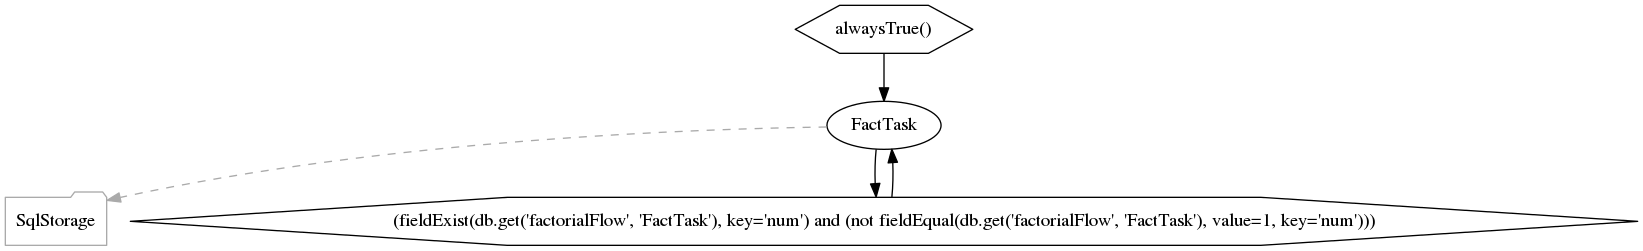
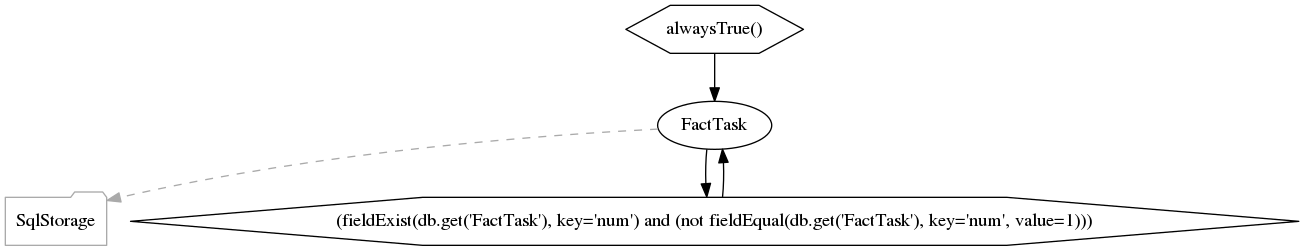
Update to the latest Selinon implementation

diff --git a/server/static/sources.html b/server/static/sources.html
@@ -1,9 +1,9 @@
 <h2>Source Code &amp; Contributing</h2>
 
 <p>
-You can find sources related to Celeriac project on the following GitHub repositories:
+You can find sources related to Selinon project on the following GitHub repositories:
   <ul>
-    <li><a href="https://github.com/fridex/celeriac">Celeriac</a> - Dispatcher and flow management implementation</li>
-    <li><a href="https://github.com/fridex/celeriac-demo">Celeriac-demo</a> - Sources to this demo</li>
-    <li><a href="https://github.com/fridex/parsley">Parsley</a> - A tool to parse YAML configuration files, check system for consistency and generate appropriate configuration for Celeriac</li>
+    <li><a href="https://github.com/fridex/selinon">Selinon</a> - Dispatcher and flow management implementation</li>
+    <li><a href="https://github.com/fridex/selinon-demo">Selinon-demo</a> - Sources to this demo</li>
+    <li><a href="https://github.com/fridex/selinonlib">Selinonlib</a> - A tool to parse YAML configuration files, check system for consistency and generate appropriate configuration for Celeriac</li>
   </ul>

diff --git a/server/config/config.py b/server/config/config.py
@@ -1,14 +1,17 @@
-#!/usr/bin/env python
-# auto-generated using Parsley v0.1.0a1 on unused-4-104.brq.redhat.com at 2016-09-05 05:29:27.264675
+#!/usr/bin/env python3
+# auto-generated using Selinonlib v0.1.0rc3 on 1c010ed07619 at 2016-10-05 11:54:07.815240
 
-from parsley.predicates import alwaysTrue, httpStatus, fieldEqual, fieldExist
-from tasks import FactTask
-from tasks import SumTask
-from tasks import MulTask
-from tasks import FallbackTask
-from celeriac.storage import SqlStorage
-from celeriac.storage import RedisStorage
-from celeriac.storage import MongoStorage
+from selinonlib.predicates import fieldEqual, httpStatus, alwaysTrue, fieldExist
+from tasks import FactTask as FactTask
+from tasks import SumTask as SumTask
+from tasks import MulTask as MulTask
+from tasks import FallbackTask as FallbackTask
+from selinon.storage.sqlStorage import SqlStorage
+from selinon.storage.redisStorage import RedisStorage
+from selinon.storage.mongoStorage import MongoStorage
+
+import functools
+from selinonlib.strategies import biexponential_increase as _strategy_function
 
 
 task_classes = {
@@ -18,11 +21,20 @@ task_classes = {
     'FallbackTask': FallbackTask
 }
 
-def get_task_instance(task_name, flow_name, parent):
+task_queues = {
+    'FactTask': 'celery',
+    'SumTask': 'celery',
+    'MulTask': 'celery',
+    'FallbackTask': 'celery'
+}
+
+dispatcher_queue = 'celery'
+
+def get_task_instance(task_name, flow_name, parent, finished):
     cls = task_classes.get(task_name)
     if not cls:
         raise ValueError("Unknown task with name '%s'" % flow_name)
-    return cls(task_name=task_name, flow_name=flow_name, parent=parent)
+    return cls(task_name=task_name, flow_name=flow_name, parent=parent, finished=finished)
 
 ################################################################################
 
@@ -33,8 +45,8 @@ task2storage_mapping = {
 }
 
 _storage_SqlStorage = SqlStorage(connection_string='postgres://postgres:postgres@postgres:5432/postgres')
-_storage_RedisStorage = RedisStorage(db=1, host='redis', port=6379, charset='utf-8')
-_storage_MongoStorage = MongoStorage(db_name='database_name', collection_name='collection_name', host='mongo', port=27017)
+_storage_RedisStorage = RedisStorage(host='redis', port=6379, charset='utf-8', db=1)
+_storage_MongoStorage = MongoStorage(host='mongo', port=27017, collection_name='collection_name', db_name='database_name')
 storage2instance_mapping = {
     'SqlStorage': _storage_SqlStorage,
     'RedisStorage': _storage_RedisStorage,
@@ -48,22 +60,36 @@ def is_flow(name):
 
 ################################################################################
 
+strategy_function = functools.partial(_strategy_function, max_retry=120, start_retry=2)
+
+################################################################################
+
 output_schemas = {
 }
 
 ################################################################################
-
-propagate_finished = {
-    'mainFlow': True,
-    'factorialFlow': False
-}
 
 propagate_node_args = {
     'mainFlow': True,
     'factorialFlow': False
 }
 
+propagate_finished = {
+    'mainFlow': True,
+    'factorialFlow': False
+}
+
 propagate_parent = {
+    'mainFlow': False,
+    'factorialFlow': False
+}
+
+propagate_compound_finished = {
+    'mainFlow': False,
+    'factorialFlow': False
+}
+
+propagate_compound_parent = {
     'mainFlow': False,
     'factorialFlow': False
 }
@@ -78,19 +104,24 @@ max_retry = {
 }
 
 retry_countdown = {
-    'FactTask': 5,
-    'SumTask': 5,
-    'MulTask': 5,
-    'FallbackTask': 5
+    'FactTask': 0,
+    'SumTask': 0,
+    'MulTask': 0,
+    'FallbackTask': 0
 }
-
-################################################################################
 
 time_limit = {
     'FactTask': None,
     'SumTask': None,
     'MulTask': None,
     'FallbackTask': None
+}
+
+storage_readonly = {
+    'FactTask': False,
+    'SumTask': False,
+    'MulTask': False,
+    'FallbackTask': False
 }
 
 ################################################################################
@@ -100,8 +131,8 @@ _mainFlow_fail_SumTask = {'next': {'factorialFlow': _mainFlow_fail_SumTask_facto
 _mainFlow_fail_factorialFlow = {'next': {'SumTask': _mainFlow_fail_SumTask_factorialFlow}, 'fallback': []}
 
 _mainFlow_failure_starting_nodes = {
-    'SumTask': _mainFlow_fail_SumTask,
-    'factorialFlow': _mainFlow_fail_factorialFlow
+    'factorialFlow': _mainFlow_fail_factorialFlow,
+    'SumTask': _mainFlow_fail_SumTask
 }
 
 failures = {
@@ -117,13 +148,13 @@ nowait_nodes = {
 
 ################################################################################
 
-def init():
-    pass
+def init(config_cls):
+    return
 
 ################################################################################
 
 def _condition_mainFlow_0(db, node_args):
-    return httpStatus(status=200, path='/', host='example.com')
+    return httpStatus(host='example.com', path='/', status=200)
 
 
 def _condition_mainFlow_1(db, node_args):
@@ -136,9 +167,9 @@ def _condition_factorialFlow_0(db, node_args):
 
 def _condition_factorialFlow_1(db, node_args):
     return (
-fieldExist(message=db.get('factorialFlow', 'FactTask'), key='num') and 
+fieldExist(message=db.get('FactTask'), key='num') and 
 (not 
-fieldEqual(message=db.get('factorialFlow', 'FactTask'), key='num', value=1)))
+fieldEqual(message=db.get('FactTask'), key='num', value=1)))
 
 
 ################################################################################

diff --git a/server/tasks.py b/server/tasks.py
@@ -1,45 +1,45 @@
 import sys
+import os
 from celery import Celery
-from celeriac import CeleriacTask, Dispatcher
-from celeriac.config import Config
+from selinon import SelinonTask, Dispatcher, Config
 
 app = Celery('tasks')
 app.config_from_object('celeryconfig')
 
 
-class FactTask(CeleriacTask):
-    def execute(self, args):
+class FactTask(SelinonTask):
+    def run(self, node_args):
         if 'FactTask' in self.parent:
             prev_result = self.parent_task_result('FactTask')
             num = prev_result['num'] - 1
             res = prev_result['value'] * num
         else:
-            assert(args['n'] > 1)
-            res = args['n']
-            num = args['n']
+            assert(node_args['n'] > 1)
+            res = node_args['n']
+            num = node_args['n']
         return {'value': res, 'num': num}
 
 
-class SumTask(CeleriacTask):
-    def execute(self, args):
-        res = args['n'] + args['m']
+class SumTask(SelinonTask):
+    def run(self, node_args):
+        res = node_args['n'] + node_args['m']
         return {'value': res}
 
 
-class MulTask(CeleriacTask):
-    def execute(self, args):
+class MulTask(SelinonTask):
+    def run(self, node_args):
         fact_result = self.parent_flow_result('factorialFlow', 'FactTask', -1)
         sum_result = self.parent_task_result('SumTask')
         res = sum_result['value'] * fact_result['value']
         return {'value': res}
 
 
-class FallbackTask(CeleriacTask):
-    def execute(self, args):
+class FallbackTask(SelinonTask):
+    def run(self, node_args):
         print("We are in FallbackTask", file=sys.stderr)
 
 
 Config.trace_by_logging()
-Config.set_config_py('config/config.py')
+Config.set_config_py(os.path.join('config', 'config.py'))
 Config.set_celery_app(app)
 

diff --git a/worker/tasks.py b/worker/tasks.py
@@ -1,45 +1,45 @@
 import sys
+import os
 from celery import Celery
-from celeriac import CeleriacTask, Dispatcher
-from celeriac.config import Config
+from selinon import SelinonTask, Dispatcher, Config
 
 app = Celery('tasks')
 app.config_from_object('celeryconfig')
 
 
-class FactTask(CeleriacTask):
-    def execute(self, args):
+class FactTask(SelinonTask):
+    def run(self, node_args):
         if 'FactTask' in self.parent:
             prev_result = self.parent_task_result('FactTask')
             num = prev_result['num'] - 1
             res = prev_result['value'] * num
         else:
-            assert(args['n'] > 1)
-            res = args['n']
-            num = args['n']
+            assert(node_args['n'] > 1)
+            res = node_args['n']
+            num = node_args['n']
         return {'value': res, 'num': num}
 
 
-class SumTask(CeleriacTask):
-    def execute(self, args):
-        res = args['n'] + args['m']
+class SumTask(SelinonTask):
+    def run(self, node_args):
+        res = node_args['n'] + node_args['m']
         return {'value': res}
 
 
-class MulTask(CeleriacTask):
-    def execute(self, args):
+class MulTask(SelinonTask):
+    def run(self, node_args):
         fact_result = self.parent_flow_result('factorialFlow', 'FactTask', -1)
         sum_result = self.parent_task_result('SumTask')
         res = sum_result['value'] * fact_result['value']
         return {'value': res}
 
 
-class FallbackTask(CeleriacTask):
-    def execute(self, args):
+class FallbackTask(SelinonTask):
+    def run(self, node_args):
         print("We are in FallbackTask", file=sys.stderr)
 
 
 Config.trace_by_logging()
-Config.set_config_py('config/config.py')
+Config.set_config_py(os.path.join('config', 'config.py'))
 Config.set_celery_app(app)
 

diff --git a/server/serverFlowInfo.py b/server/serverFlowInfo.py
@@ -1,12 +1,11 @@
 #!/usr/bin/env python
 import os
 import shutil
-from parsley import System
+from selinonlib import System
 from flask import render_template
 
 from celery import Celery
-from celeriac import  Dispatcher
-from celeriac.config import Config
+from selinon import Dispatcher, Config
 
 FLOWS_TEMPLATE = 'flows.html'
 YAML_FILES_DIR = os.path.join(os.getcwd(), 'config')

diff --git a/README.md b/README.md
@@ -1,4 +1,5 @@
-# celeriac-demo
-Demo for Celeriac implementation
+# selinon-demo
 
-This demo uses old, devel version of Selinon (Celeriac) and is outdated now.
+Demo for Selinon implementation. Please visit [Selinon](https://github.com/fridex/selinon) for more info.
+
+
